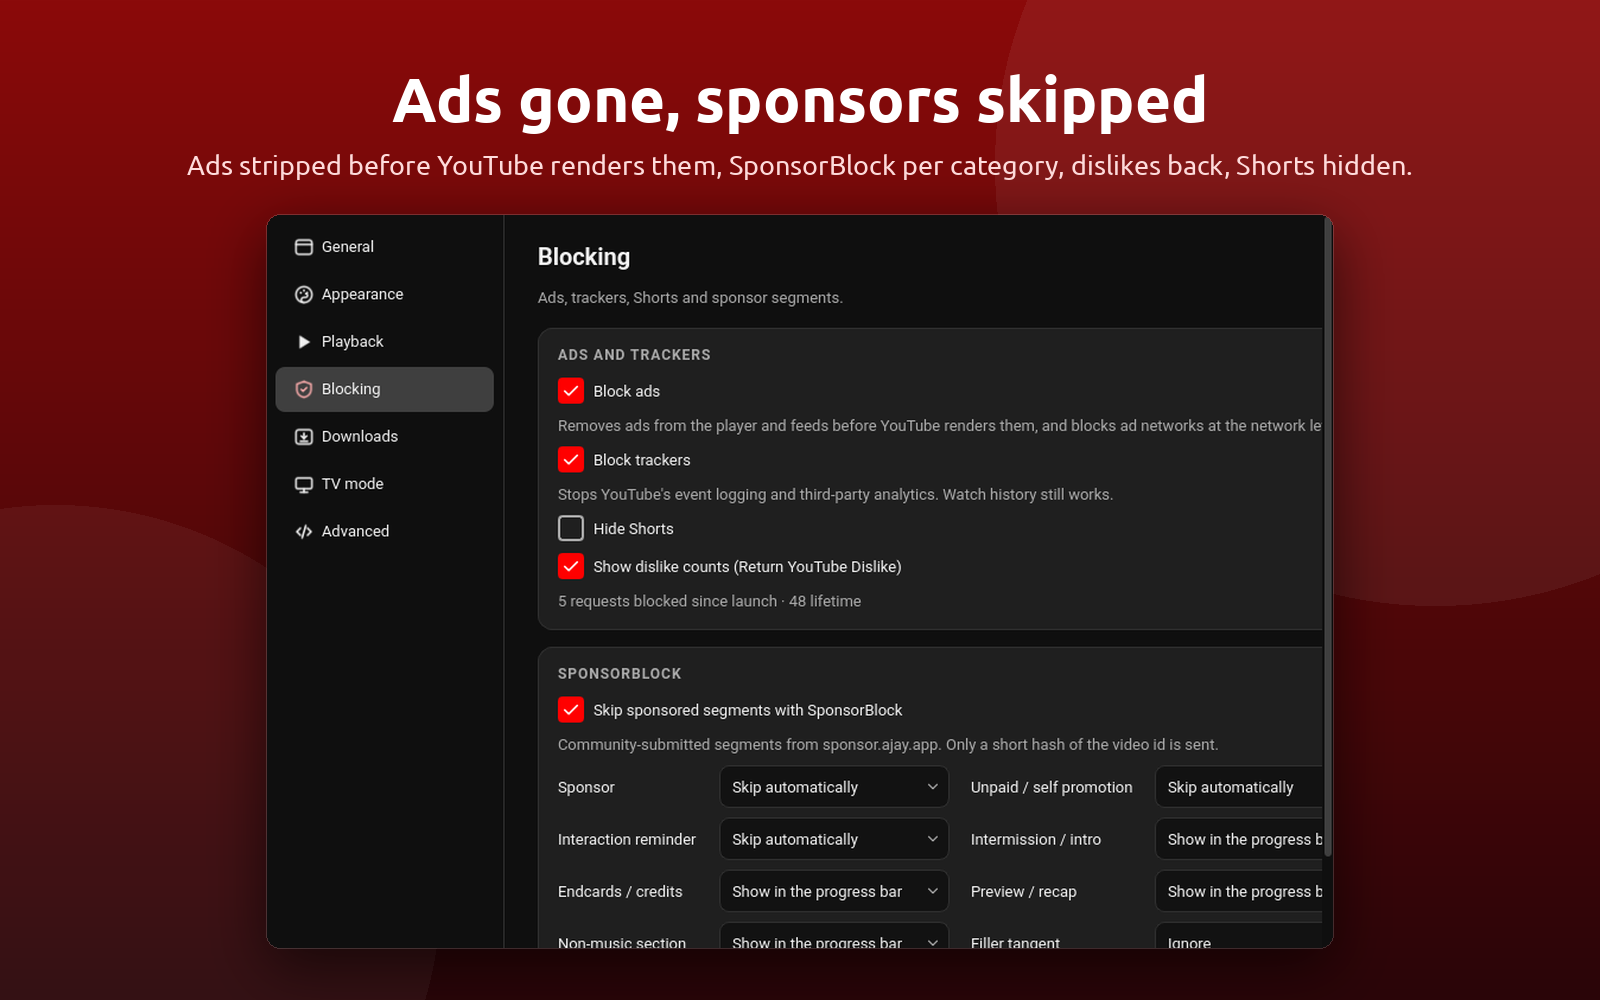
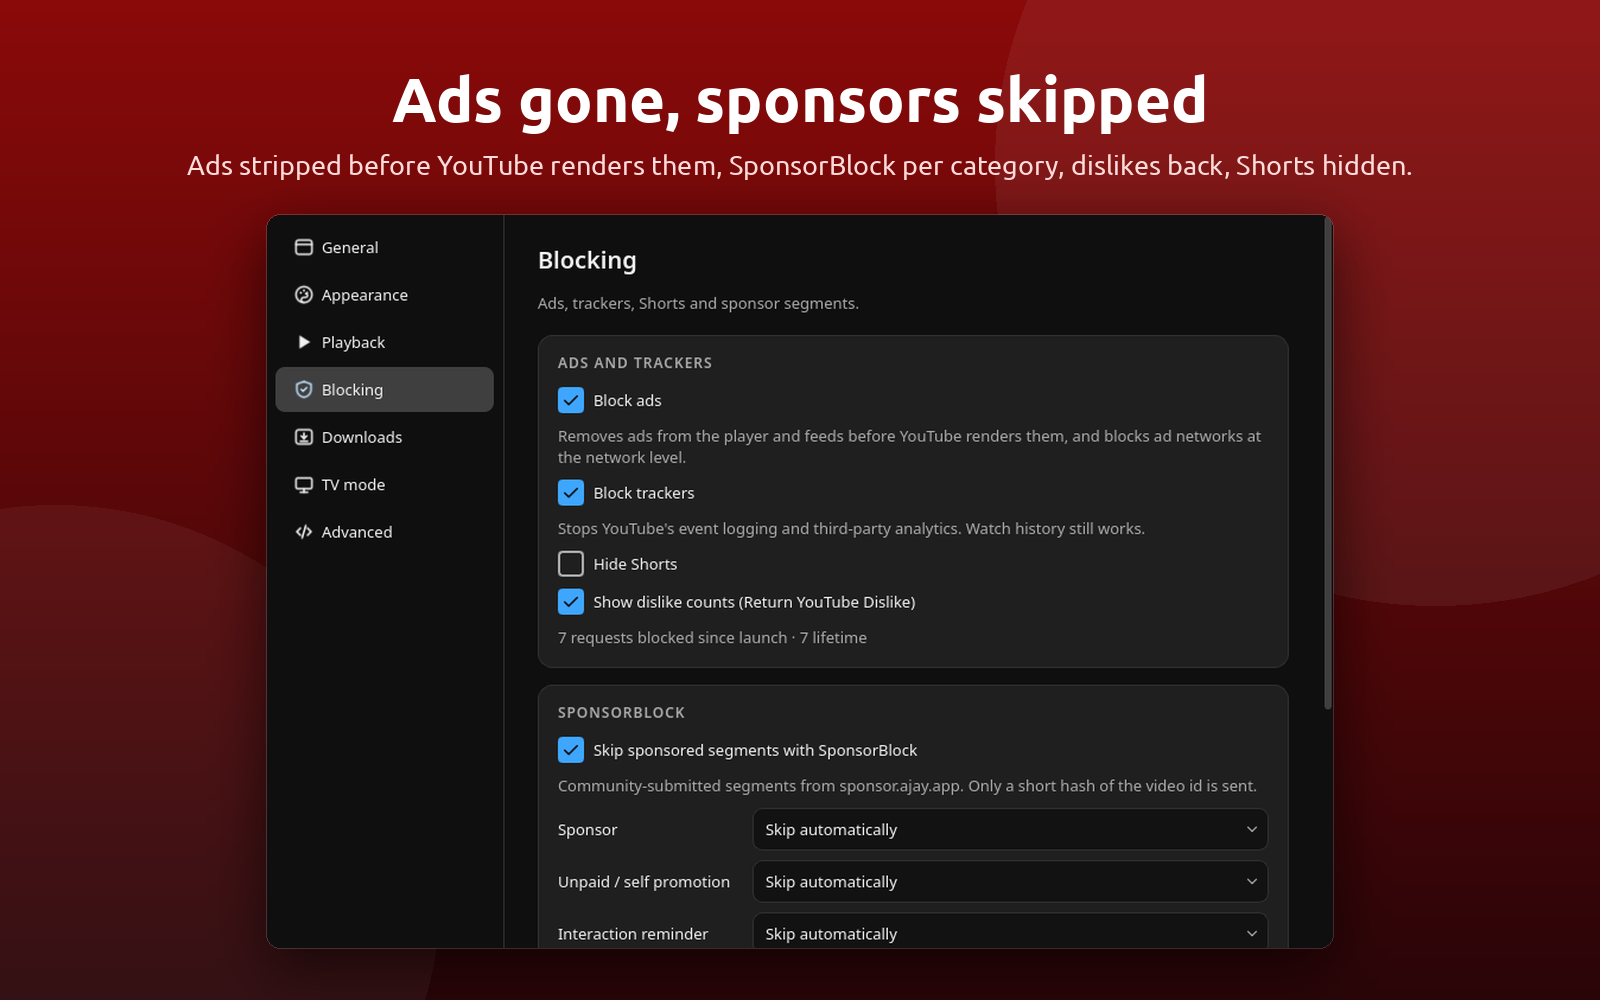
Guide, screenshots and changelog for 10.3.0

diff --git a/GUIDE.md b/GUIDE.md
@@ -2,8 +2,8 @@
 
 Red is a desktop app for YouTube on Linux. This page walks through the window, playback, TV
 mode, blocking, downloads and the settings, and ends with a troubleshooting section. You can
-open it from inside the app at any time: the **⋯** menu on the side rail → **Online guide**, or
-**About Red → Online guide**.
+open it from inside the app at any time: the **More** menu at the bottom of the side rail →
+**Online guide**, or **About Red → Online guide**.
 
 - [Install and first start](#install-and-first-start)
 - [The window](#the-window)
@@ -32,25 +32,49 @@ sudo snap install red-app
 flatpak install flathub com.ktechpit.red
 ```
 
-On the first start of each new version Red shows a short *What's new* sheet; press **Got it**
-or Esc to close it. The full history is in the [changelog](CHANGELOG.md).
+<img src="screenshots/guide/welcome.png" alt="Welcome to Red" width="631">
+
+The very first start shows a short welcome: the three ways to watch, downloading, the mini
+player and blocking, each with its shortcut. *Get started* closes it; **More → Show me around**
+opens it again any time.
+
+After an update, the first start shows a short *What's new* sheet instead; press **Got it** or
+Esc to close it. The full history is in the [changelog](CHANGELOG.md).
 
 ## The window
 
 ![Red in desktop mode](screenshots/guide/desktop.png)
 
-Red shows the YouTube site with a slim rail on the left. From top to bottom the rail has the
-Red logo (**Home**), **Back**, **Forward** and **Reload**, then **Download this** (the current video, playlist or
-channel), **Downloads** (opens the queue beside the page), **Mini player**, **TV mode**,
-**Music mode**, and at
-the bottom **Settings** and the **⋯** menu.
+Red shows the YouTube site with a rail on the left. From top to bottom the rail has:
 
-<img src="screenshots/guide/menu.png" alt="The ⋯ menu" width="283">
+- **Home** (the Red logo).
+- The **mode switch**: **YouTube**, **YouTube Music** and **TV mode**. The mode you are in is
+  lit; click another to switch (Ctrl+1, Ctrl+2, Ctrl+3). See [TV mode](#tv-mode) and
+  [Music mode](#music-mode).
+- **Back**, **Forward** and **Reload**.
+- **Download this** when the page is a video, playlist or channel (its icon turns red), or
+  **Download from link** anywhere else.
+- **Downloads**, the queue beside the page, with a count of what is running.
+- **Mini player**, which says *Play a video first* until something plays.
+- At the bottom: **Settings**, **More** and **Hide labels**.
 
-The ⋯ menu holds everything that is not on the rail: download from a pasted link, copy the
-current video link, full screen, zoom, the keyboard shortcuts sheet, this guide, the log folder
-and *About Red*. Every rail button has a shortcut (press **F1** for the list), and the rail can
-be hidden in *Settings → General* if you prefer shortcuts alone.
+The rail shows a label next to each icon. **Hide labels** turns it into a narrow strip of icons
+(hover one for its name and shortcut), and **Show labels** in the same place brings the labels
+back. The same switch is in *Settings → General*. In a short window the rail scrolls with the
+mouse wheel.
+
+<img src="screenshots/guide/menu.png" alt="The More menu" width="295">
+
+The **More** menu (or **F10**) holds everything that is not on the rail: download from a pasted
+link, copy the current video link, full screen, zoom, the keyboard shortcuts sheet, *Show me
+around*, this guide, the log folder and *About Red*. Every rail button has a shortcut (press
+**F1** for the list), and the rail can be hidden in *Settings → General* if you prefer shortcuts
+alone; F10 still opens the menu then.
+
+**Keyboard**: **F6** moves the keyboard between the page, the rail and the Downloads panel
+(Shift+F6 goes back). On the rail the arrow keys move, Enter or Space presses a button and Esc
+returns to the page. A dashed ring shows where the keyboard is. Clicking a rail button leaves
+the keyboard on the page, so YouTube's own keys keep working.
 
 ## Watching
 
@@ -65,16 +89,20 @@ dialogs.
 smartwatch, a Bluetooth headset) play, pause and skip. Red also appears as a player in the
 desktop's media widget (MPRIS).
 
-<img src="screenshots/guide/tray.png" alt="Tray menu" width="244">
+<img src="screenshots/guide/tray.png" alt="Tray menu" width="260">
 
 **Tray icon**: shows what is playing, with play / pause, previous and next. Closing the window
 can either quit Red or leave it in the tray, still playing (*Settings → General → When closing
 the window*). On GNOME the tray needs the *AppIndicator and KStatusNotifierItem Support*
 extension.
 
-**Mini player** (Ctrl+Shift+M, or the rail button) pops the current video into a small
-always-on-top window while you work. It is available while a video plays; close it to return
-to the main window. Its size is in *Settings → Playback*.
+**Mini player** (Ctrl+Shift+M, or the rail button) shrinks Red into a small always-on-top
+window with just the video while you work. It is available while something plays. A video gets
+a wide window, a Short a tall one that fits it, and YouTube Music its own phone-style player
+(see [Music mode](#music-mode)). To get the full window back press **Esc**, the round button in
+the corner (it appears when you move the mouse), the window's close button, or Ctrl+Shift+M
+again. Closing the mini player never quits Red. *Settings → Playback* sets its size: small,
+medium or large.
 
 **Screen** stays awake while a video plays, and playback keeps going while the window is hidden
 or minimised. Both are switches in *Settings → Playback*.
@@ -87,15 +115,19 @@ with a working driver; see [Troubleshooting](#troubleshooting) if video turns bl
 
 ![TV mode](screenshots/guide/tv.png)
 
-**Ctrl+T** (or the rail button) switches to YouTube's living-room interface, the one on smart
-TVs and consoles, full screen by default. The video you were watching carries over, and so does
-your sign-in. Ctrl+T switches back.
+**TV mode** on the rail's mode switch (or **Ctrl+3**) switches to YouTube's living-room
+interface, the one on smart TVs and consoles, full screen by default. The video you were
+watching carries over, and so does your sign-in.
+
+To leave, press **Ctrl+T**, or move the mouse and click **Back to YouTube** in the top left
+corner. The button also shows for a few seconds when TV mode starts. Ctrl+T works both ways:
+from YouTube it opens TV mode, in TV mode it goes back.
 
 | Keys | Action |
 |---|---|
 | Arrows, Enter | Navigate, select |
 | Esc, Backspace, right click | Back |
-| Ctrl+T | Back to desktop mode |
+| Ctrl+T, or the Back to YouTube button | Back to YouTube |
 | Ctrl+D | Download the current video |
 | + / −, M | Volume, mute |
 | A / D, S | Playback speed down / up, reset |
@@ -104,18 +136,19 @@ your sign-in. Ctrl+T switches back.
 A **gamepad** works as on a console: the left stick or D-pad moves, **A** selects, **B** goes
 back, **LT / RT** seek. Plug it in before or after starting Red; nothing needs pairing.
 
-*Settings → TV mode* can start Red in TV mode, keep it windowed, hide Shorts, allow resolutions
-above the screen size and use the lighter low-memory interface.
+*Settings → TV mode* can keep it windowed, hide Shorts, allow resolutions above the screen size
+and use the lighter low-memory interface. To open Red in TV mode, set *Settings → General →
+Open Red in* to *TV mode*.
 
 ## Music mode
 
 ![Music mode](screenshots/guide/music.png)
 
-**Ctrl+M** (or the rail button) switches the window to YouTube Music. Your sign-in carries
-over, and so does the video you were watching, as its track. Music keeps playing while you
-browse your library, playlists and search results, and the tray, media keys and the desktop's
-media controls follow along with the album name and cover. Ctrl+M switches back; Ctrl+T goes
-straight to TV mode.
+**YouTube Music** on the rail's mode switch (or **Ctrl+2**) switches the window to YouTube
+Music. Your sign-in carries over, and so does the video you were watching, as its track. Music
+keeps playing while you browse your library, playlists and search results, and the tray, media
+keys and the desktop's media controls follow along with the album name and cover. **YouTube** on
+the mode switch (Ctrl+1, or Ctrl+M) goes back.
 
 What changes in Music mode:
 
@@ -124,10 +157,13 @@ What changes in Music mode:
   bar) opens the same dialog instead of a Premium offer.
   Playlist pages download as a whole. Choosing *Video* here does not change the default the
   other modes use.
-- The mini player is off (YouTube Music has its own player bar), and the screen is allowed to
-  sleep while music plays.
+- The **mini player** turns the window into a tall, phone-style YouTube Music player: the art or
+  video, the title, the seek bar, the controls and the Up next queue. It opens YouTube Music's
+  player page for you and puts it back when you leave.
+- The screen is allowed to sleep while music plays.
 - Links to YouTube Music from the desktop site open here instead of in a separate window, and
-  `red --music` starts Red in this mode. The mode is remembered across launches like TV mode.
+  `red --music` starts Red in this mode. To open Red here every time, set *Settings → General →
+  Open Red in* to *YouTube Music*.
 
 ## Blocking
 
@@ -153,7 +189,7 @@ itself. Nothing needs installing first.
 
 **Starting a download**
 
-- On a video, playlist or channel page press **Ctrl+D** or the rail's download button.
+- On a video, playlist or channel page press **Ctrl+D** or the rail's **Download this**.
 - Paste a link: **Ctrl+N** (or the panel's *Paste a link…*). A link already on the clipboard
   is filled in.
 - From a terminal: `red --download <link>`. Red is single-instance, so this hands the link to
@@ -193,11 +229,21 @@ entry range, so a channel with a thousand videos is not fetched by accident. You
 
 ![Downloads panel](screenshots/guide/downloads.png)
 
-**Ctrl+J** shows the panel beside the page. Each entry has pause, resume, retry and remove;
-finished entries offer *Show in folder* and *Open*. The panel's ⋯ menu pauses or resumes
-everything, clears finished entries, opens the download folder and the engine sheet. A desktop
-notification with *Show in folder* appears when a download finishes (switch in *Settings →
-General*). The queue survives a restart; unfinished downloads can be resumed or retried.
+**Ctrl+J** shows the panel beside the page; in a window narrower than about 900 pixels it opens
+over the page instead, and Esc closes it. When you queue a download where the panel cannot show
+(full screen, the mini player, TV mode, a narrow window), a short *Download added* message
+appears instead, and *Already in your downloads* if the same download is already queued.
+
+Hovering an entry shows its buttons. **Right-click** an entry (or press the Menu key) for every
+action it offers: *Open*, *Show in folder*, *Pause*, *Resume*, *Retry*, *Cancel*, *Copy link*,
+*Copy error* and *Remove from list*. From the keyboard, **Enter** opens a finished file, retries
+a failed download or resumes a paused one, **Delete** removes a finished entry and **Space**
+pauses or resumes. A failed download shows its whole reason on the entry.
+
+The panel's ⋯ menu pauses or resumes everything, clears finished entries, opens the download
+folder and the engine sheet. A desktop notification with *Show in folder* appears when a
+download finishes (switch in *Settings → General*). The queue survives a restart; unfinished
+downloads can be resumed or retried.
 
 **Age-restricted and rate-limited videos**: Red reuses your YouTube sign-in for downloads
 (*Settings → Downloads → Use my YouTube sign-in for downloads*, on by default). If a download
@@ -227,8 +273,9 @@ Press **Ctrl+,** or the rail's gear.
   </tr>
 </table>
 
-- **General**: start page (Home, Subscriptions, or where you left off), what closing the
-  window does, tray icon, side rail, download notifications.
+- **General**: the mode Red opens in (YouTube by default, YouTube Music, TV mode, or the mode
+  you used last), the YouTube start page (Home, Subscriptions, or where you left off), what
+  closing the window does, tray icon, side rail and its labels, download notifications.
 - **Appearance**: theme, page zoom, interface scale.
 - **Playback**: autoplay, preferred codec, hardware decoding, screen and background playback,
   a playback progress bar behind Red's taskbar entry (off by default; Plasma and Unity-style
@@ -236,11 +283,11 @@ Press **Ctrl+,** or the rail's gear.
 - **Blocking**: see [Blocking](#blocking).
 - **Downloads**: see [Downloads](#downloads).
 - **TV mode**: see [TV mode](#tv-mode).
-- **Music mode** has no settings page; see [Music mode](#music-mode).
+- **YouTube Music** has no settings page of its own; see [Music mode](#music-mode).
 - **Advanced**: hardware acceleration, the identity used on Google's sign-in pages, a custom
   user agent, clear cache, sign out and clear the session, reset site permissions (microphone,
   camera, location), the log folder, diagnostics, and *Reset all settings* (keeps your sign-in
-  and downloads).
+  and downloads). Each of these confirms under its button when it is done.
 
 ## Keyboard shortcuts
 
@@ -257,13 +304,17 @@ Press **Ctrl+,** or the rail's gear.
 | Ctrl+D | Download this video / playlist / channel |
 | Ctrl+N | Download from a pasted link |
 | Ctrl+J | Downloads panel |
-| Ctrl+Shift+M | Mini player |
-| Ctrl+T | TV mode |
-| Ctrl+M | Music mode |
+| Ctrl+Shift+M | Mini player (Esc returns) |
+| Ctrl+1 / Ctrl+2 / Ctrl+3 | YouTube / YouTube Music / TV mode |
+| Ctrl+T | TV mode on / off |
+| Ctrl+M | YouTube Music on / off |
+| F6 / Shift+F6 | Move the keyboard between the page, the rail and the Downloads panel |
+| F10 | The More menu |
 | F11 | Full screen |
 | Ctrl++ / Ctrl+- / Ctrl+0 | Zoom in / out / reset |
 | Ctrl+W | Hide the window (to the tray) |
 | Ctrl+, | Settings |
+| F1 | This list |
 | Ctrl+Q | Quit |
 | Play/Pause, Next, Previous media keys | Playback |
 
@@ -294,9 +345,10 @@ take effect after a restart. Red does this by itself when the GPU keeps crashing
 Advanced → Sign-in identity* on its default (Firefox on Google's pages). If a sign-in attempt
 still loops, use *Sign out and clear session…* on the same page and sign in again.
 
-**A download fails.** Open the Downloads panel, press *Retry* first. If it fails again open
-the engine sheet (panel ⋯ → *Download engine…*) and *Check for updates*; YouTube changes often
-and the engine follows within a day. A message about age restriction or rate limits means the
+**A download fails.** Open the Downloads panel; the failed entry shows the reason. Press *Retry*
+first. If it fails again open the engine sheet (panel ⋯ → *Download engine…*) and *Check for
+updates*; YouTube changes often and the engine follows within a day. To report it, right-click
+the entry and choose *Copy error*. A message about age restriction or rate limits means the
 download needs your sign-in; see [Downloads](#downloads).
 
 **No tray icon.** GNOME hides tray icons unless the *AppIndicator and KStatusNotifierItem
@@ -310,7 +362,7 @@ desktop (`-gtk`, `-kde`, `-gnome`) are installed.
 the *Sound* or *Media* keys also need to be bound in the keyboard settings.
 
 **Something else.** *About Red → Copy* puts the diagnostics (versions, GPU, engine state) on
-the clipboard, and *Open log folder* in the ⋯ menu shows the log. Attach both to an
+the clipboard, and *Open log folder* in the More menu shows the log. Attach both to an
 [issue](https://github.com/keshavbhatt/red/issues) or email them to
 [connect@ktechpit.com](mailto:connect@ktechpit.com).
 

diff --git a/CHANGELOG.md b/CHANGELOG.md
@@ -3,6 +3,57 @@
 All notable changes to Red. The format follows [Keep a Changelog](https://keepachangelog.com/);
 versions follow [Semantic Versioning](https://semver.org/).
 
+## [10.3.0] - 2026-10-17
+
+### Added
+- A **mode switch** at the top of the rail: YouTube, YouTube Music and TV, with the current one
+  lit. The tray menu has the same three, and Ctrl+1, Ctrl+2 and Ctrl+3 pick them directly.
+- TV mode shows a **Back to YouTube** button when it starts and whenever the mouse moves.
+- Settings, General: **Open Red in** picks the mode Red starts in: YouTube, YouTube Music,
+  TV mode or the mode used last.
+- The side rail shows **labels** next to its icons. *Hide labels* at the bottom of the rail (or
+  Settings, General) brings back the narrow icons-only rail.
+- F10 opens the rail's menu, also when the rail is hidden.
+- F6 (and Shift+F6) moves the keyboard between the page, the side rail and the Downloads panel.
+  On the rail the arrow keys move, Enter or Space presses and Esc returns to the page; Tab
+  reaches the Downloads panel's buttons. A dashed ring shows where the keyboard is.
+- A **welcome** on the first start shows the three modes, downloading, the mini player and
+  blocking; *Show me around* in the rail's menu opens it again.
+- The mini player has a button in its corner (it shows when the mouse moves) and Esc to go back
+  to the full window.
+- The mini player works in YouTube Music: a tall window with YouTube Music's own player (art,
+  title, seek bar, controls and the queue).
+- Shorts open the mini player in a tall window that fits the video.
+- In a window narrower than 900 px the Downloads panel opens over the page instead of not at
+  all; Esc closes it.
+- "Download added" appears where the Downloads panel can't (full screen, the mini player, TV
+  mode, a narrow window), and "Already in your downloads" when the same download is queued.
+- Download cards have a right-click menu with every action (Open, Show in folder, Pause, Resume,
+  Retry, Cancel, Copy link, Copy error, Remove), work from the keyboard (Enter, Delete, Space, the
+  Menu key) and are read out by screen readers. A failed download shows its whole reason.
+- Settings confirms Clear cache, Copy diagnostics, Reset site permissions and Reset all settings
+  right under the buttons.
+
+### Changed
+- Red opens in YouTube unless set otherwise, instead of in whichever mode was open when it
+  closed. "Start Red in TV mode" carries over as *Open Red in: TV mode*.
+- The window title names the mode in YouTube Music and TV mode.
+- The rail's Download button says what a click does: *Download this* on a video, playlist or
+  channel, *Download from link* elsewhere. The mini player button says why it is unavailable.
+- In a short window the rail scrolls instead of squeezing its buttons together.
+- On-screen hints stay up long enough to read the longer ones.
+- Colours follow YouTube's: red only for small marks such as progress bars, badges and the rail's
+  Download button when there is something to download, YouTube's light (or dark) pill for main
+  buttons, and YouTube blue for check boxes and selections.
+
+### Fixed
+- Closing the mini player's window returns to the full window instead of quitting Red.
+- Download progress bars move smoothly instead of jumping every second or so.
+- With *Advanced* picked and no stream chosen yet, the download dialog previewed an audio file
+  name; it shows the video file now.
+- The Blocking page of Settings no longer runs past the dialog's right edge; the SponsorBlock
+  choices sit in one column.
+
 ## [10.2.0] - 2026-09-15
 
 ### Added
